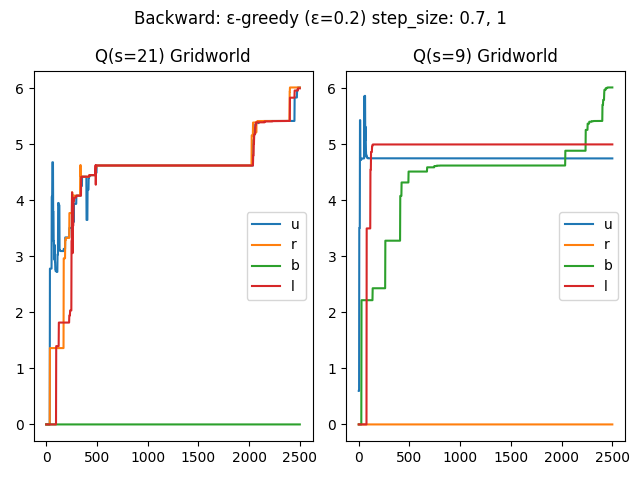
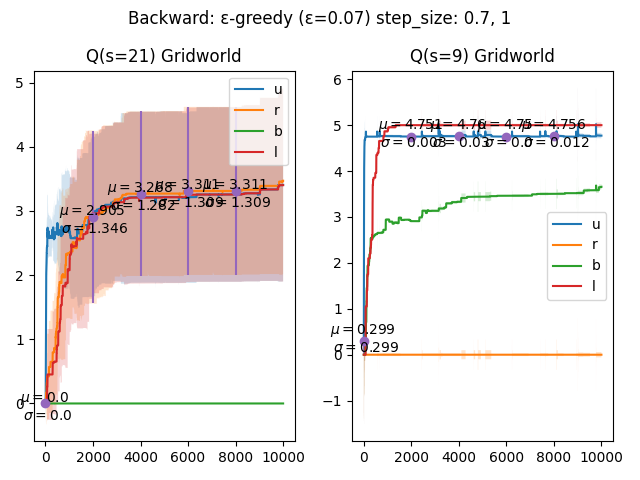
switch to stoc exps

diff --git a/Time_inconsistency/algos/backward/backward_offline_nonexponential.py b/Time_inconsistency/algos/backward/backward_offline_nonexponential.py
@@ -7,9 +7,9 @@ Policy ---> agent in original paper
 
 """
 
-from envs.DoughVeg_gridworld import GridworldEnv  # deterministic simple gridworld
+#from envs.DoughVeg_gridworld import GridworldEnv  # deterministic simple gridworld
 #from envs.DoughVeg_windy import GridworldEnv  # windy gridworld
-#from envs.DoughVeg_simple_stochastic import GridworldEnv # stochastic simple gridworld
+from envs.DoughVeg_simple_stochastic import GridworldEnv # stochastic simple gridworld
 import numpy as np
 import pandas as pd
 import sys
@@ -24,7 +24,7 @@ current_env_windy = False  # Change between normal/windy gridworlds
 
 discount_factor = 1
 reward_multiplier = 1
-step_size_1 = .7
+step_size_1 = .1
 step_size_2 = 1
 discounting = 'hyper'  # 'hyper', 'exp'
 init_policy = 'random'  # 'random' 'stable'
@@ -34,7 +34,7 @@ if isSoftmax:
     alpha = 3  # The noise parameter that modulates between random choice (=0) and perfect maximization (=\infty)
 else:
     epsilon = .07
-num_episodes = 10000  # 0000
+num_episodes = 20000  # 0000
 
 env = GridworldEnv()
 
@@ -455,7 +455,7 @@ else:
     else:
         fig.suptitle('Backward: \u03B5-greedy' + ' (\u03B5=' + str(epsilon)+')' + ' step_size: ' + str(step_size_1) + ', ' + str(step_size_2))
     fig.show()
-    fig.savefig('Q_step_size_' + str(step_size_1) + '_' + str(step_size_2) + '.png')
+    fig.savefig('stochastic_graphs/Q_step_size_' + str(step_size_1) + '_' + str(step_size_2) + '.png')
 
     '''# first pic
     fig, axs = plt.subplots(1, 2)
